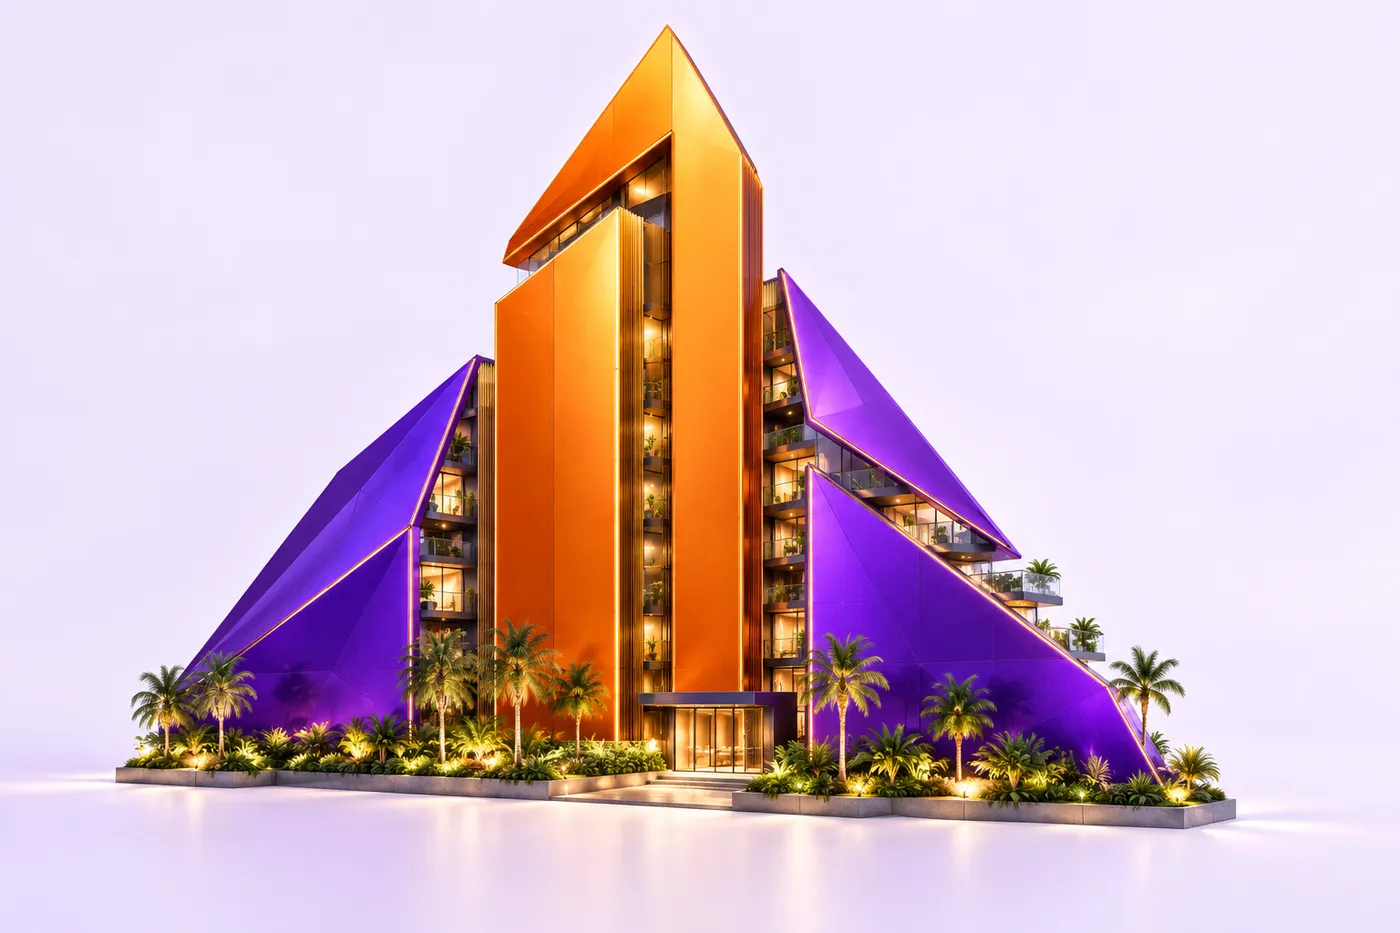
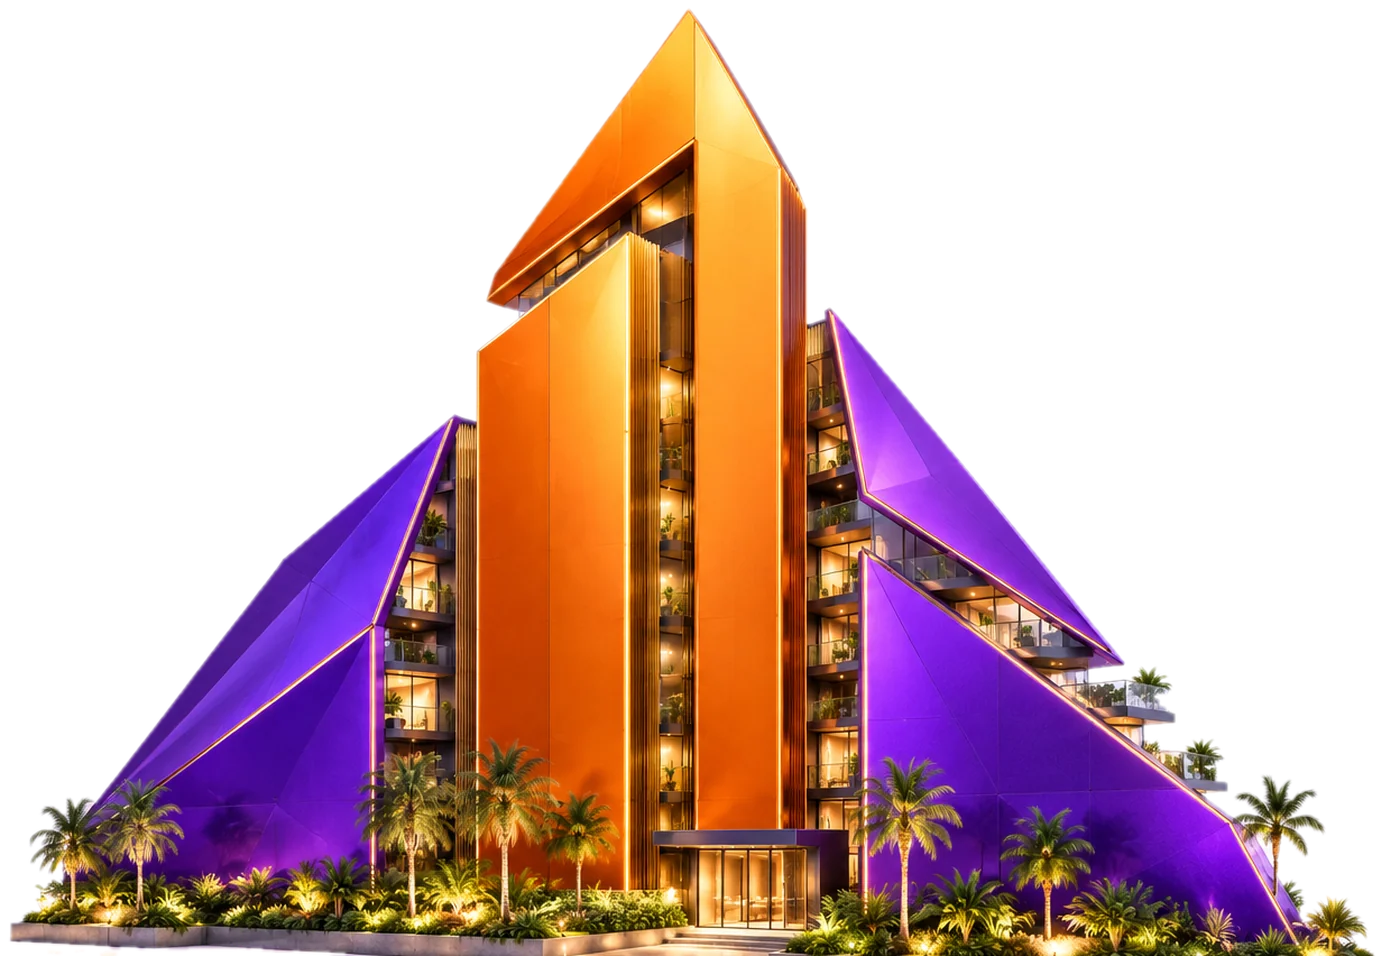
Site com mais vida: topo branco, movimento, símbolo que se monta e imagens (EM-04)
- Topo branco no lugar do lilás; prédio recortado em fundo transparente
  (Python) e os balões e a ficha numa faixa abaixo dele, sem cobrir a imagem.
- Faixa de fatos centralizada, sem "Dados ilustrativos".
- Faixa que corre com o que o sistema faz; seções entram ao rolar.
- Símbolo que se monta na chamada final, com as peças do pacote de motion.
- Pirâmide 3D no topo de Plataforma, prédio no topo de Soluções e faixa
  "Gente de verdade" com a foto no Início.
- Títulos com traço mais fino, números das etapas maiores, grupo × TRÍADE
  em dois cartões iguais com seta.
- Tudo parado com prefers-reduced-motion.

Claude-Session: https://claude.ai/code/session_01SsJdQDA6dcBq2hHKXwaaFq

diff --git a/triade-condo/sistema/apps/site/src/styles/paginas.css b/triade-condo/sistema/apps/site/src/styles/paginas.css
@@ -22,12 +22,6 @@
 .hero2 .botao.claro { background: #ffffffb3; }
 .palco-predio { position: relative; min-width: 0; }
 .palco-predio img.predio { height: auto; width: 112%; max-width: none; margin-left: -4%; mix-blend-mode: darken; -webkit-mask-image: linear-gradient(180deg, #000 80%, transparent 100%); mask-image: linear-gradient(180deg, #000 80%, transparent 100%); }
-.flutua { position: absolute; z-index: 3; box-shadow: 0 24px 50px -24px #2b0a6b80; }
-.flutua.msg { left: 0; top: 18%; max-width: 250px; background: #fff; border-radius: 16px 16px 16px 4px; padding: 11px 14px; font-size: 14px; }
-.flutua.msg small { display: block; color: var(--tinta-suave); font-size: 11.5px; margin-bottom: 3px; font-weight: 700; }
-.flutua.resp { left: 10%; top: 41%; max-width: 250px; background: var(--balao-condo); border-radius: 16px 16px 4px 16px; padding: 11px 14px; font-size: 14px; }
-.flutua.ficha { right: 0; top: 58%; width: 280px; background: #fff; border-radius: 14px; padding: 14px 16px; display: flex; flex-direction: column; gap: 8px; border: 1px solid var(--linha); }
-.flutua.ficha .l { display: flex; justify-content: space-between; gap: 10px; font-size: 13px; }
 .mono-d { font-family: var(--mono); font-weight: 500; font-size: 12px; }
 .hero-fatos { display: flex; flex-wrap: wrap; align-items: center; gap: 10px 32px; padding-block: 18px 34px; border-top: 1px solid #dccdf6; font-size: 14.5px; color: var(--tinta-suave); }
 .hero-fatos span { display: inline-flex; gap: 8px; align-items: center; }
@@ -178,9 +172,6 @@
 }
 @media (max-width: 640px) {
   .palco-predio img.predio { width: 128%; margin-left: -14%; }
-  .flutua.msg { top: 6%; max-width: 200px; font-size: 13px; }
-  .flutua.resp { top: 30%; left: auto; right: 0; max-width: 200px; font-size: 13px; }
-  .flutua.ficha { position: relative; right: auto; top: auto; width: auto; margin: -40px 0 0; }
   .chat-grupo { height: 300px; }
   .estado { padding: 12px; }
 }
@@ -194,9 +185,6 @@
 .hero2 .wrap.hero-fatos { display: flex; padding-block: 18px 34px; }
 @media (min-width: 1001px) {
   .palco-predio img.predio { width: 138%; margin-left: -22%; margin-block: -40px -30px; }
-  .flutua.msg { top: 10%; left: -4%; }
-  .flutua.resp { top: 27%; left: 2%; }
-  .flutua.ficha { top: auto; bottom: 4%; right: -2%; }
 }
 :root { --serifa: "Playfair Display", Georgia, serif; --app-fundo: #f7f4fc; --sombra-app: 0 1px 2px #1e15310d, 0 4px 12px #3a1a7a0a; }
 body { font-size: 17px; line-height: 1.6; font-feature-settings: "ss01", "cv11"; text-rendering: optimizeLegibility; -webkit-font-smoothing: antialiased; }
@@ -271,9 +259,6 @@ em.d.quebra { white-space: normal; }
 .agora-l .ic { width: 30px; height: 30px; flex: 0 0 30px; border-radius: 10px; display: inline-flex; }
 .agora-l .t { flex: 1; min-width: 0; display: flex; flex-direction: column; font-size: 13.5px; font-weight: 500; }
 .agora-l .t small { font-size: 12px; color: var(--tinta-suave); font-weight: 400; }
-/* Ficha flutuante do topo, no padrão do app */
-.flutua.ficha { padding: 16px; gap: 10px; border-radius: 18px; }
-.flutua.ficha .app-titulo { font-size: 16px; }
 @media (max-width: 640px) {
   .estado { grid-template-columns: minmax(0, 1fr); padding: 12px; }
   .app-barra .busca { display: none; }
@@ -281,11 +266,6 @@ em.d.quebra { white-space: normal; }
 }
 /* Ajustes conferidos nas telas */
 .hero2 .wrap > div:first-child { position: relative; z-index: 4; }
-@media (min-width: 1001px) {
-  .flutua.msg { top: 4%; left: 0; }
-  .flutua.resp { top: 25%; left: 10%; }
-  .flutua.ficha { bottom: 0; right: -3%; width: 300px; }
-}
 .app-barra .busca { white-space: nowrap; overflow: hidden; text-overflow: ellipsis; }
 .agora-l .ic { align-items: center; justify-content: center; }
 .agora-l .ic svg { width: 16px; height: 16px; fill: none; stroke: currentColor; stroke-width: 1.8; stroke-linecap: round; stroke-linejoin: round; }
@@ -543,3 +523,143 @@ b.prot, .prot { white-space: nowrap; }
   .cena .zap-pe .campo { font-size: 10px; }
   .painel-cel .pil { white-space: normal; text-align: left; }
 }
+
+/* Mais vida (pedido da Carolina em 23/10/2026): entrada das seções, prédio e pirâmide flutuando,
+   faixa que corre, o símbolo que se monta e imagens nos topos. Tudo parado para quem pede menos movimento. */
+@media (prefers-reduced-motion: no-preference) {
+  .revela { opacity: 0; transform: translateY(28px); transition: opacity .7s ease, transform .7s cubic-bezier(.2,.7,.2,1); }
+  .revela.visivel { opacity: 1; transform: none; }
+  .palco-predio img.predio, .flutuando { animation: flutua 7s ease-in-out infinite; }
+  .esteira ul { animation: corre 38s linear infinite; }
+  .esteira:hover ul { animation-play-state: paused; }
+}
+@keyframes flutua { 0%, 100% { translate: 0 0; } 50% { translate: 0 -10px; } }
+@keyframes corre { to { transform: translateX(-100%); } }
+
+.esteira { display: flex; overflow: hidden; border-block: 1px solid #dccdf6; background: #ffffff80; -webkit-mask-image: linear-gradient(90deg, transparent, #000 8%, #000 92%, transparent); mask-image: linear-gradient(90deg, transparent, #000 8%, #000 92%, transparent); }
+.esteira ul { display: flex; flex: 0 0 auto; gap: 0; margin: 0; padding: 0; list-style: none; }
+.esteira li { display: inline-flex; align-items: center; gap: 14px; padding: 14px 0 14px 28px; font-weight: 700; font-size: 15px; white-space: nowrap; color: var(--tinta); }
+.esteira li::before { content: ""; width: 9px; height: 9px; transform: rotate(45deg); background: var(--grad-barra); border-radius: 2px; }
+@media (prefers-reduced-motion: reduce) { .esteira { flex-wrap: wrap; -webkit-mask-image: none; mask-image: none; } .esteira ul { flex-wrap: wrap; } .esteira ul[aria-hidden] { display: none; } }
+
+.pag-topo.com-imagem { overflow: hidden; }
+.pag-topo.com-imagem .wrap { display: grid; grid-template-columns: minmax(0, 7fr) minmax(0, 5fr); align-items: center; gap: 32px; }
+.pag-topo-texto { display: flex; flex-direction: column; gap: 18px; }
+.pag-topo-img { width: 100%; height: auto; filter: drop-shadow(0 40px 50px #5808cc40); }
+.pag-topo-img.predio { width: 130%; max-width: none; margin-block: -40px -60px; mix-blend-mode: darken; -webkit-mask-image: linear-gradient(180deg, #000 78%, transparent); mask-image: linear-gradient(180deg, #000 78%, transparent); filter: none; }
+@media (max-width: 900px) {
+  .pag-topo.com-imagem .wrap { grid-template-columns: minmax(0, 1fr); gap: 8px; }
+  .pag-topo-img { width: 78%; margin: 8px auto 0; }
+  .pag-topo-img.predio { width: 118%; margin: -10px -9% -30px; }
+}
+
+.gente { background: var(--papel); }
+.gente .wrap { display: grid; grid-template-columns: minmax(0, 6fr) minmax(0, 5fr); gap: 56px; align-items: center; padding-block: clamp(56px, 8vw, 104px); }
+.gente-foto { position: relative; margin: 0; border-radius: 28px; overflow: hidden; box-shadow: 0 50px 90px -50px #3a07a080; aspect-ratio: 4 / 3; }
+.gente-foto img { width: 100%; height: 100%; object-fit: cover; object-position: 60% 40%; transition: transform 1.2s cubic-bezier(.2,.7,.2,1); }
+.gente-foto::after { content: ""; position: absolute; left: 0; bottom: 0; width: 38%; height: 7px; background: var(--grad-barra); }
+.gente-foto .selo-ilus { position: absolute; right: 14px; top: 14px; font-family: var(--mono); font-size: 10.5px; letter-spacing: .06em; background: #1e1531b3; color: #fff; padding: 4px 8px; border-radius: 6px; }
+.gente .lead2 { margin: 18px 0 26px; }
+@media (prefers-reduced-motion: no-preference) { .gente-foto.revela img { transform: scale(1.08); } .gente-foto.visivel img { transform: none; } }
+@media (max-width: 900px) { .gente .wrap { grid-template-columns: minmax(0, 1fr); gap: 28px; } .gente-foto { border-radius: 20px; } }
+
+/* O símbolo que se monta na chamada final */
+.simbolo-monta { position: relative; width: clamp(110px, 13vw, 160px); aspect-ratio: 749 / 626; margin-bottom: 24px; }
+.simbolo-monta img, .simbolo-monta svg { position: absolute; inset: 0; width: 100%; height: 100%; }
+.simbolo-monta polyline { stroke-width: 2.5; vector-effect: non-scaling-stroke; stroke: #ffb45c; stroke-dasharray: 1; opacity: 0; }
+.simbolo-monta .brilho { position: absolute; inset: 0; pointer-events: none; opacity: 0; background: linear-gradient(105deg, transparent 35%, #ffffffa0 50%, transparent 65%) no-repeat; background-size: 300% 100%; -webkit-mask: url(/simbolo/ponta-coluna.webp) center / 100% 100% no-repeat; mask: url(/simbolo/ponta-coluna.webp) center / 100% 100% no-repeat; }
+.simbolo-monta.armado img { opacity: 0; }
+.simbolo-monta.montar polyline { animation: sm-traco .9s cubic-bezier(.4,0,.2,1) both, sm-some .5s 1.5s both; }
+.simbolo-monta.montar .p-nucleo { animation: sm-sobe .7s .9s cubic-bezier(.2,.8,.2,1) both; }
+.simbolo-monta.montar .p-ponta-coluna { animation: sm-sobe .75s 1s cubic-bezier(.2,.8,.2,1) both; }
+.simbolo-monta.montar .p-lateral-esquerda { animation: sm-esq .7s 1.15s cubic-bezier(.2,.8,.2,1) both; }
+.simbolo-monta.montar .p-lateral-direita-superior { animation: sm-dir .7s 1.25s cubic-bezier(.2,.8,.2,1) both; }
+.simbolo-monta.montar .p-lateral-direita-inferior { animation: sm-dir .7s 1.32s cubic-bezier(.2,.8,.2,1) both; }
+.simbolo-monta.montar .brilho { animation: sm-brilho .8s 2s ease-out both; }
+@keyframes sm-traco { from { stroke-dashoffset: 1; opacity: 1; } to { stroke-dashoffset: 0; opacity: 1; } }
+@keyframes sm-some { from { opacity: 1; } to { opacity: 0; } }
+@keyframes sm-sobe { from { opacity: 0; transform: translateY(18%); } to { opacity: 1; transform: none; } }
+@keyframes sm-esq { from { opacity: 0; transform: translateX(-16%); } to { opacity: 1; transform: none; } }
+@keyframes sm-dir { from { opacity: 0; transform: translateX(16%); } to { opacity: 1; transform: none; } }
+@keyframes sm-brilho { from { opacity: 1; background-position: 120% 0; } to { opacity: 1; background-position: -20% 0; } }
+
+/* Topo branco com elementos de cor (pedido da Carolina em 23/10/2026): sai o lilás, entram as formas
+   do símbolo em violeta e laranja; os balões e a ficha saem de cima do prédio e viram uma faixa logo abaixo. */
+:root { --lavanda: #ffffff; }
+.topo-lavanda .cabecalho { background: color-mix(in srgb, #fff 90%, transparent); border-bottom-color: var(--linha); }
+.hero2, .pag-topo, .topo-precos { isolation: isolate; }
+.hero2::before, .pag-topo::before, .topo-precos::before { content: ""; position: absolute; z-index: -1; pointer-events: none; right: -6%; top: -18%; width: 46%; aspect-ratio: 1; background: radial-gradient(closest-side, #7b2be026, #7b2be00a 60%, transparent); }
+.pag-topo, .topo-precos { position: relative; overflow: hidden; }
+.cor-cunha { position: absolute; z-index: -1; pointer-events: none; }
+.hero2 .deco-a, .pag-topo .deco-a, .topo-precos .deco-a { left: -60px; bottom: 0; width: 220px; height: 260px; background: linear-gradient(180deg, #7b2be0, #5808cc); clip-path: polygon(0 100%, 100% 100%, 25% 0); opacity: .14; }
+.hero2 .deco-b, .pag-topo .deco-b, .topo-precos .deco-b { left: 120px; bottom: 0; width: 18px; height: 150px; border-radius: 9px 9px 0 0; background: var(--grad-barra); opacity: .55; }
+.hero2 .deco-c, .pag-topo .deco-c, .topo-precos .deco-c { left: 150px; bottom: 0; width: 18px; height: 96px; border-radius: 9px 9px 0 0; background: var(--grad-barra); opacity: .35; }
+.sem-fid2 { background: #fff; border: 1px solid var(--linha); box-shadow: 0 40px 80px -60px #5808cc59; position: relative; overflow: hidden; }
+.sem-fid2::before { content: ""; position: absolute; left: 0; top: 0; bottom: 0; width: 6px; background: var(--grad-barra); }
+
+/* Faixa do pedido de exemplo, logo abaixo do topo */
+.pedido-faixa { display: grid !important; grid-template-columns: minmax(0, 1fr) 36px minmax(0, 1fr) 36px minmax(0, 1.15fr); align-items: center; gap: 12px; padding-block: 8px 32px; }
+.pf-cartao { position: relative; background: #fff; border: 1px solid var(--linha); border-radius: 18px; padding: 16px 18px; font-size: 14.5px; box-shadow: 0 30px 60px -40px #3a07a059; display: flex; flex-direction: column; gap: 6px; }
+.pf-cartao small { color: var(--tinta-suave); font-size: 12px; font-weight: 700; }
+.pf-rot { font-size: 11px; font-weight: 700; letter-spacing: .06em; text-transform: uppercase; color: var(--violeta-600); }
+.pf-msg { border-top: 4px solid #7b2be0; }
+.pf-resp { background: var(--balao-condo); border-top: 4px solid #25a36f; }
+.pf-resp .pf-rot { color: #0b7558; }
+.pf-ficha { border-top: 4px solid var(--laranja-500); }
+.pf-ficha .pf-rot { color: #95560a; }
+.pf-ficha .app-titulo { font-size: 15.5px; margin: 0; }
+.pf-seta { height: 2px; background: repeating-linear-gradient(90deg, var(--laranja-500) 0 6px, transparent 6px 11px); position: relative; }
+.pf-seta::after { content: ""; position: absolute; right: -2px; top: -4px; border: 5px solid transparent; border-left: 7px solid var(--laranja-500); }
+@media (max-width: 1000px) {
+  .pedido-faixa { grid-template-columns: minmax(0, 1fr); gap: 0; padding-block: 0 24px; }
+  .pf-seta { width: 2px; height: 22px; margin-left: 28px; background: repeating-linear-gradient(180deg, var(--laranja-500) 0 5px, transparent 5px 9px); }
+  .pf-seta::after { right: auto; left: -4px; top: auto; bottom: -4px; border: 5px solid transparent; border-top: 7px solid var(--laranja-500); }
+}
+
+/* Faixa de fatos centralizada */
+.hero2 .wrap.hero-fatos { justify-content: center; border-top-color: var(--linha); }
+@media (max-width: 640px) { .hero2 .wrap.hero-fatos { flex-direction: column; align-items: center; text-align: center; } }
+
+/* Títulos com traço mais fino (pedido da Carolina em 23/10/2026) */
+.titulo-g, h2.titulo-g { font-weight: 600; letter-spacing: -0.035em; }
+.hero2 h1 { font-weight: 700; }
+
+/* Grupo × TRÍADE: dois cartões do mesmo tamanho, conversas com o fundo do WhatsApp e uma seta no meio */
+.versus { grid-template-columns: minmax(0, 1fr) 56px minmax(0, 1fr); gap: 0; align-items: stretch; }
+.lado-v { padding: 26px; gap: 18px; border-radius: 24px; }
+.lado-v.grupo { background: #fbfafc; border: 1px solid var(--linha); }
+.lado-v.nosso { background: linear-gradient(#fff, #fff) padding-box, linear-gradient(135deg, #7b2be0, #ff8d01) border-box; border: 2px solid transparent; box-shadow: 0 50px 90px -50px #5808cc66; }
+.vs-cab { display: flex; flex-direction: column; gap: 10px; align-items: flex-start; }
+.vs-cab h3 { font-size: 21px; font-weight: 600; letter-spacing: -0.02em; display: block !important; }
+.vs-rot { font-size: 12px; font-weight: 700; letter-spacing: .06em; text-transform: uppercase; padding: 5px 11px; border-radius: 999px; }
+.vs-rot.ruim { background: #fff0f4; color: #bc1450; }
+.vs-rot.bom { background: linear-gradient(90deg, #f3eaff, #fff1df); color: #5808cc; }
+.chat-grupo, .chat-nosso { height: 300px; background: #efeae2; border-radius: 18px; overflow: hidden; }
+.chat-grupo .cab { background: #f7f4ef; margin: -12px -12px 4px; padding: 10px 12px; border-bottom: 1px solid #e3ddd3; }
+.chat-nosso { justify-content: flex-end; }
+.lado-v.grupo .chat-grupo { filter: saturate(.75); }
+.lista-vs li { font-size: 15px; padding: 12px 0; }
+.vs-meio { align-self: center; justify-self: center; width: 44px; height: 44px; border-radius: 50%; background: var(--grad-barra); color: #fff; display: inline-flex; align-items: center; justify-content: center; box-shadow: 0 12px 24px -10px #f2700a99; position: relative; z-index: 2; }
+.vs-meio svg { width: 20px; height: 20px; fill: none; stroke: currentColor; stroke-width: 2.4; stroke-linecap: round; stroke-linejoin: round; }
+.virada2 { justify-content: center; text-align: center; flex-direction: column; margin-top: 48px; }
+.virada2 p { max-width: 24ch; }
+@media (max-width: 1000px) { .versus { grid-template-columns: minmax(0, 1fr); gap: 16px; } .vs-meio { display: none; } }
+@media (max-width: 640px) { .lado-v { padding: 18px; } .vs-cab .vs-rot { display: none; } .vs-cab h3 { font-size: 18px; } .chat-grupo, .chat-nosso { height: 260px; } }
+
+/* Números das etapas maiores, no laranja da marca (pedido da Carolina em 23/10/2026) */
+.passo2 .num { font-family: var(--sans); font-weight: 700; font-size: clamp(48px, 5vw, 72px); line-height: 1; letter-spacing: -0.04em; background: linear-gradient(180deg, #f2700a, #b8480a); -webkit-background-clip: text; background-clip: text; color: transparent; }
+.passo2 h3 { font-weight: 600; }
+
+/* Prédio recortado em fundo transparente (Python, 23/10/2026): sem a caixa lilás atrás */
+.palco-predio img.predio, .pag-topo-img.predio { mix-blend-mode: normal; -webkit-mask-image: none; mask-image: none; filter: drop-shadow(0 40px 40px #3a07a033); }
+@media (min-width: 1001px) { .palco-predio img.predio { width: 112%; margin: 0 0 0 -4%; } }
+@media (max-width: 1000px) { .palco-predio img.predio { width: 100%; margin: 0; } }
+.pag-topo-img.predio { width: 110%; margin: 0; }
+@media (max-width: 900px) { .pag-topo-img.predio { width: 100%; margin: 8px 0 0; } }
+.hero2 .wrap.pedido-faixa { grid-template-columns: minmax(0, 1fr) 40px minmax(0, 1fr) 40px minmax(0, 1.15fr); padding-block: 12px 36px; }
+@media (max-width: 1000px) { .hero2 .wrap.pedido-faixa { grid-template-columns: minmax(0, 1fr); } }
+.hero2 .deco-a, .pag-topo .deco-a, .topo-precos .deco-a { left: auto; right: -40px; bottom: 0; width: 200px; height: 240px; clip-path: polygon(0 100%, 100% 100%, 75% 0); opacity: .10; }
+.hero2 .deco-b, .pag-topo .deco-b, .topo-precos .deco-b { left: auto; right: 190px; height: 120px; opacity: .45; }
+.hero2 .deco-c, .pag-topo .deco-c, .topo-precos .deco-c { left: auto; right: 160px; height: 76px; opacity: .3; }
+.hero2 .cor-cunha { display: none; }
+.cor-cunha.deco-b, .cor-cunha.deco-c { display: none; }

diff --git a/triade-condo/docs/painel-execucao.html b/triade-condo/docs/painel-execucao.html
@@ -2466,6 +2466,7 @@
     ]
   ],
   "historico": [
+    {"data": "23/10/2026", "inicio": "01:24", "fim": "01:36", "texto": "Site (R16, EM-04) com mais vida, a pedido da Carolina: topo branco no lugar do lilás, prédio recortado em fundo transparente e os balões e a ficha numa faixa abaixo dele, faixa que corre com o que o sistema faz, seções que entram ao rolar, o símbolo que se monta na chamada final (peças do pacote de motion), a pirâmide 3D no topo de Plataforma, o prédio no topo de Soluções e a faixa Gente de verdade com a foto no Início; títulos com traço mais fino, números das etapas maiores e o grupo × TRÍADE em dois cartões iguais com seta. Tudo parado para quem pede menos movimento. 36 testes de ponta a ponta.", "ref": "EM-04"},
     {"data": "23/10/2026", "inicio": "01:14", "fim": "01:24", "texto": "Site (R16, EM-04) no celular, a pedido da Carolina: topo mais curto, grupo × TRÍADE em abas, etapas com o WhatsApp legível e o que mudou no painel ao lado, cartão Agora sem quebrar palavra por palavra, abas que deslizam, rodapé em 2 colunas e valores da implantação sem quebrar o R$. 36 testes de ponta a ponta.", "ref": "EM-04"},
     {"data": "23/10/2026", "inicio": "00:49", "fim": "01:12", "texto": "Site (R16, EM-04) no desenho da rodada 3 aprovado pela Carolina: Início mais curto, com o pedido 2026-0412 mudando com a rolagem num notebook com o painel e um celular com o WhatsApp; páginas novas Plataforma e Soluções no menu, com links simples; Preços no layout novo; Playfair só nos destaques em itálico. 34 testes de ponta a ponta e 12 de unidade. Sem banco; a publicação segue no R16.1.", "ref": "EM-04"},
     {"data": "22/10/2026", "inicio": "22:49", "fim": "23:55", "texto": "Novo frontend: as páginas por link e os impressos no padrão novo (D4.25, DC15). O link do prestador mostra um passo por vez (Confirmar, Chegar, Contar e Pronto), com o prazo dentro do passo, Já terminei como link, o formulário direto depois da chegada, as fotos no modelo de anexar e, no fim, o que foi mandado; antes, Cheguei continuava como principal depois de terminar. A enquete e a assembleia com cada opção num cartão, a bolinha no violeta da marca e o botão de enviar só quando há o que enviar; a assembleia com Quando e onde e a pauta inteira num cartão. O e-mail com o ícone certo e sem quebrar no hífen. Os quatro impressos com o mesmo topo de prévia, Voltar e Imprimir, e a folha A4 que cabe no celular; o cartaz não quebra o endereço no meio do código e, desligado, leva às Configurações. Sem banco; publica na Vercel pelo merge. O que ficou diferente do desenho está no D4.26. Testado localmente: 265 Vitest e 418 ponta a ponta.", "ref": "V-11, MP-08, MP-09, AC-02, AC-03, AT-30, CD-01, CD-12, CD-13, CD-14, W-16"},
